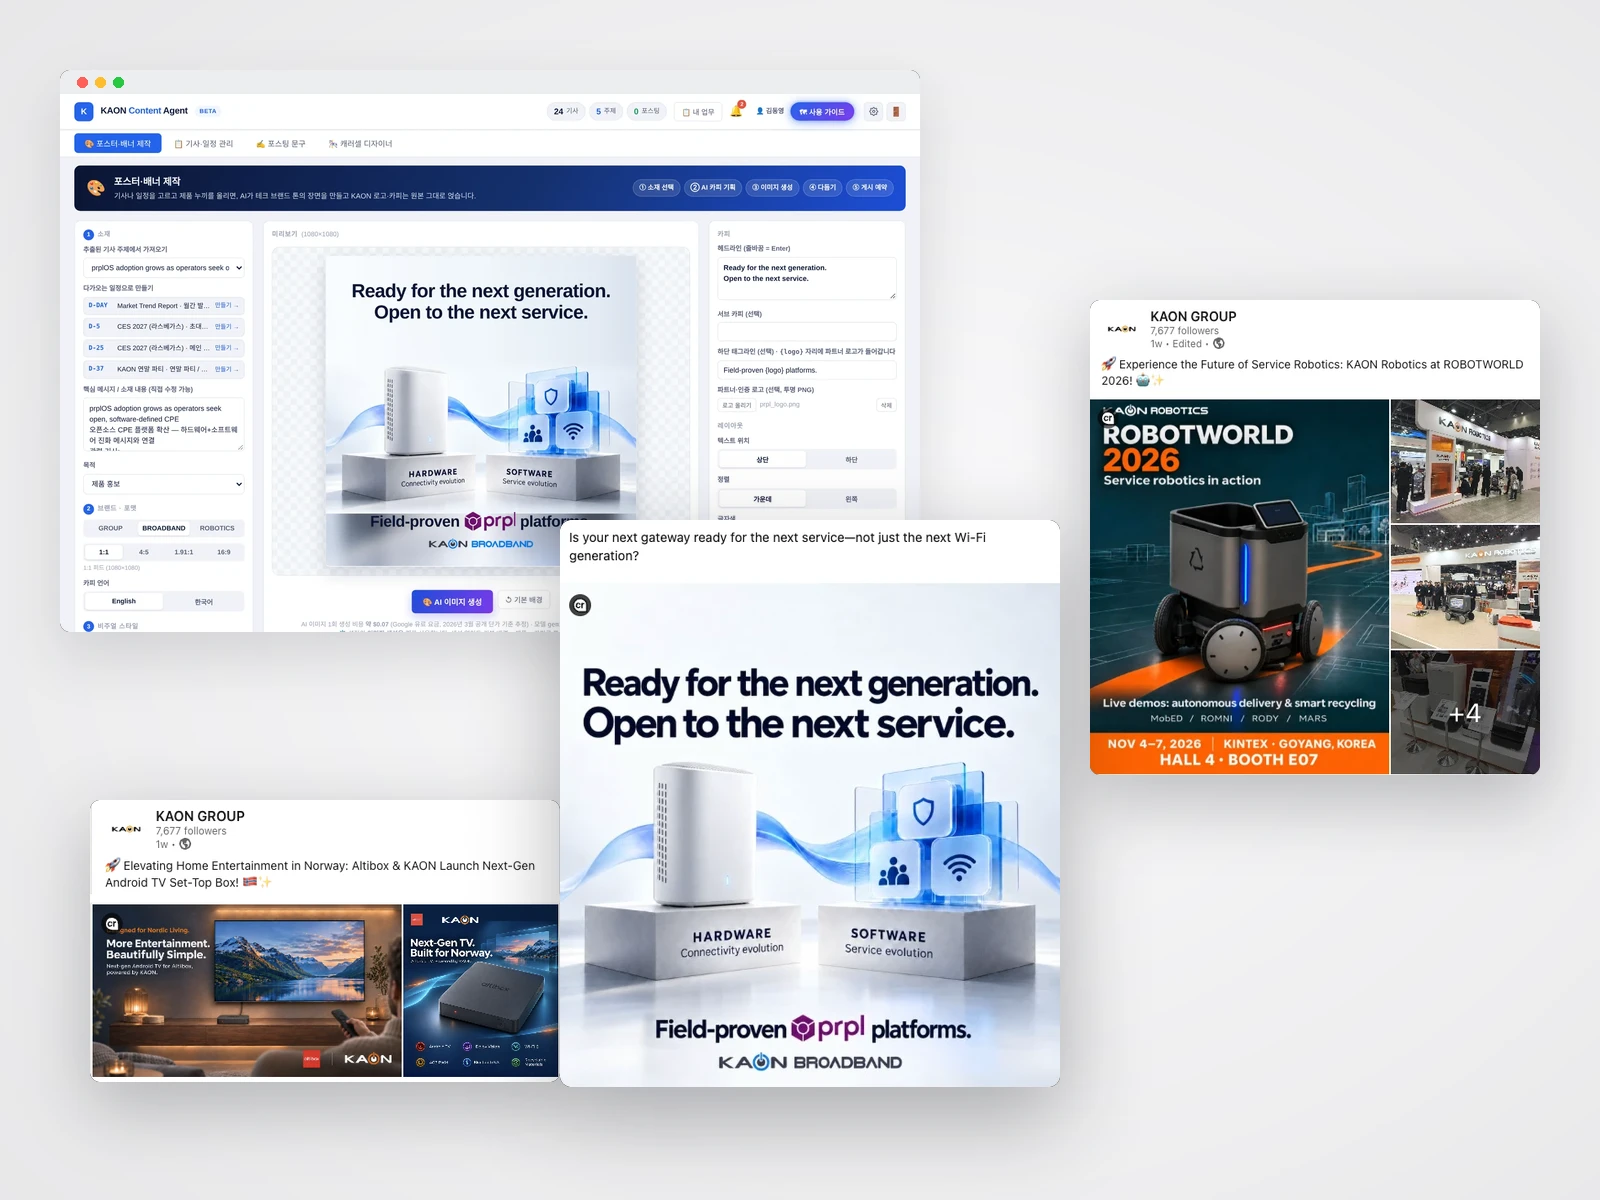
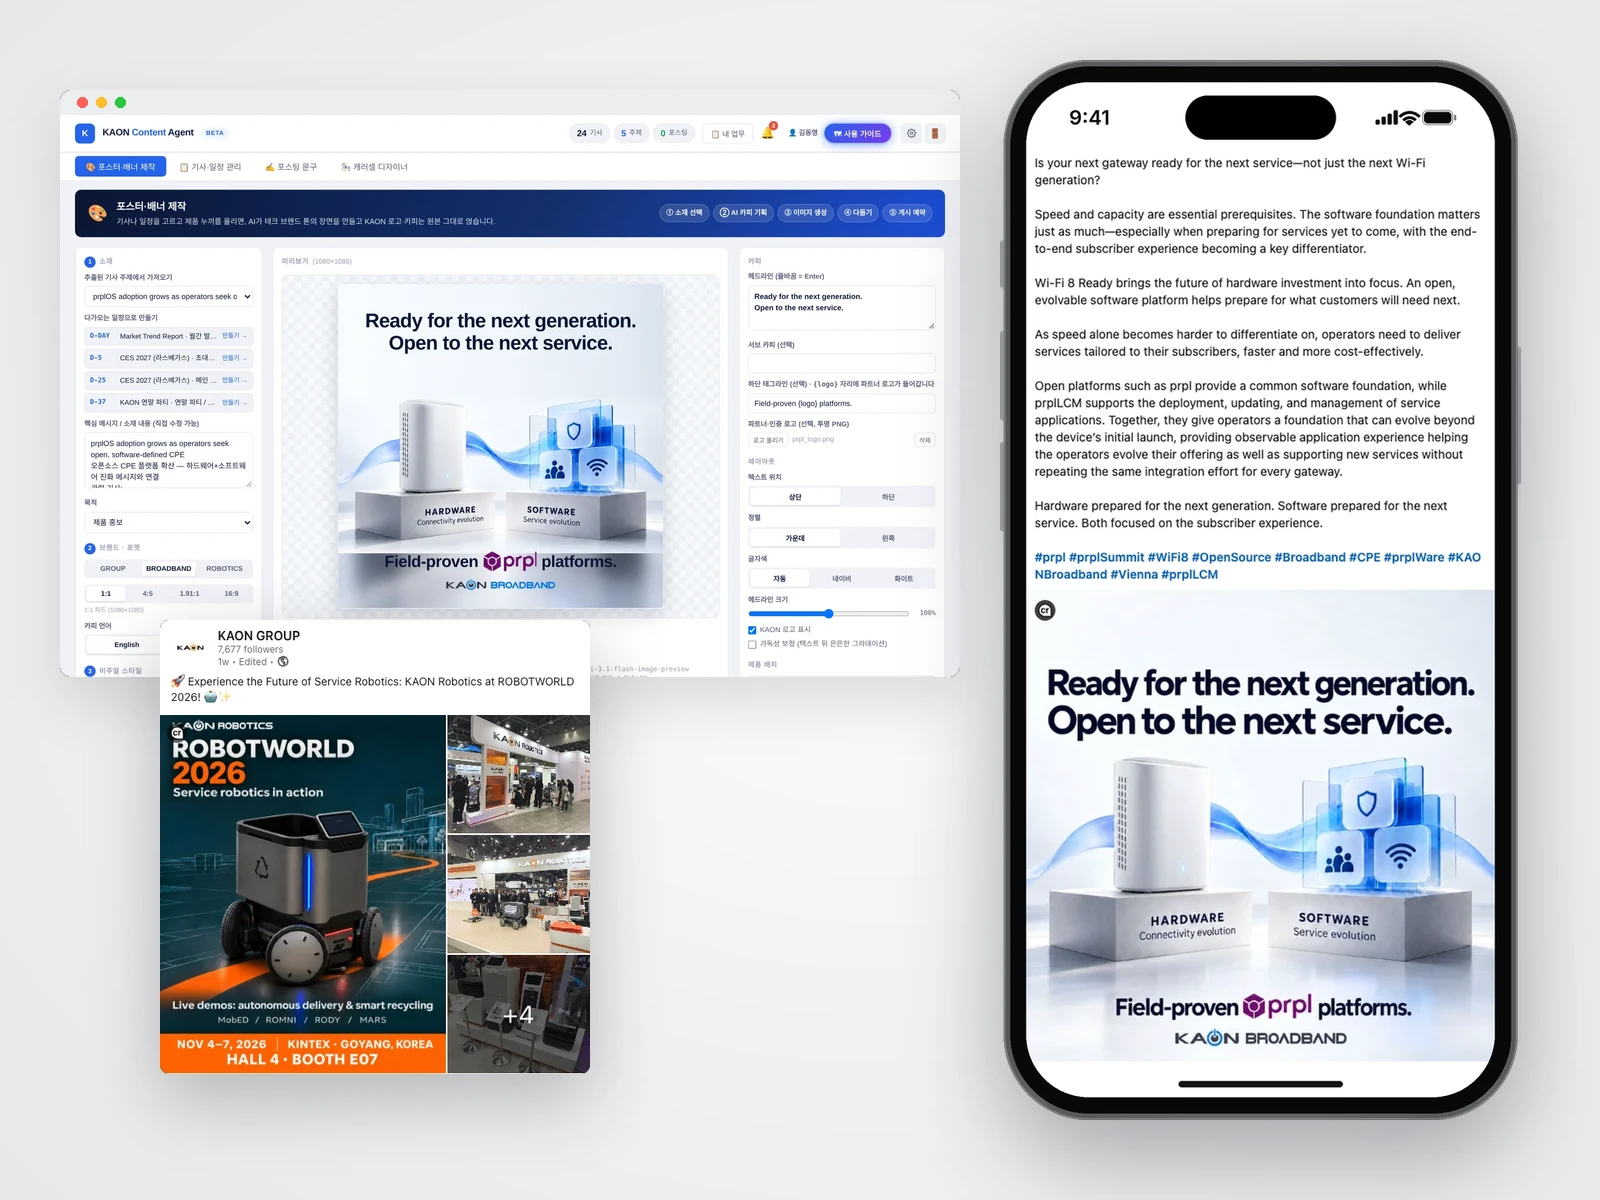
Show prpl LinkedIn post in a realistic phone mockup in thumbnails and Live section
Claude-Session: https://claude.ai/code/session_01BFCG5mZW9hgWuvcjPHNUrC

diff --git a/index.html b/index.html
@@ -722,6 +722,7 @@ body.lb-open .cursor{background:#EDEDED}
 .ag-posts{display:grid;grid-template-columns:repeat(3,minmax(0,1fr));gap:clamp(14px,2vw,28px);align-items:start}
 .ag-post{margin:0;display:grid;gap:12px}
 .ag-pc{border-radius:14px}
+.ag-phone{background:transparent!important;box-shadow:none!important;border-radius:0;overflow:visible!important;max-width:340px;justify-self:center;width:100%}.ag-phone img{filter:drop-shadow(0 30px 40px rgba(18,22,34,.28))}.ag-post:has(.ag-phone){justify-items:center;text-align:center}
 .ag-post figcaption{font-size:13px;line-height:1.6;color:var(--ink-2)}
 .ag-post figcaption b{display:block;font-size:14.5px;font-weight:500;color:var(--ink)}
 @media (max-width:900px){ .ag-posts{grid-template-columns:minmax(0,1fr);max-width:520px} }
@@ -4055,7 +4056,7 @@ go(0);})();
 
   <section class="ag-sec ag-live"><div class="wrap"><div class="c">
     <div class="ag-h"><span class="ag-no">Live on LinkedIn</span><h3>플래너로 만들어,<br>실제로 게시한 콘텐츠</h3><p>KAON Content Agent로 제작해 KAON 공식 채널과 임직원 계정에 실제로 게시한 사례입니다. 전시회 안내, 제품 런칭, 기술 메시지처럼 성격이 다른 게시물을 같은 흐름으로 만들었습니다. 게시물을 누르면 전체 글을 볼 수 있습니다.</p></div>
-    <div class="ag-posts"><figure class="ag-post"><button class="ag-ph ag-pc" type="button" data-ag-lb="post-prpl" aria-label="KAON Broadband — prpl 기반 게이트웨이 (Wi-Fi 8 Ready) 실제 LinkedIn 게시물 크게 보기"><img src="assets/agent/post-prpl.webp" alt="KAON Broadband — prpl 기반 게이트웨이 (Wi-Fi 8 Ready) — 실제 LinkedIn 게시물" loading="lazy" decoding="async"></button><figcaption><b>KAON Broadband — prpl 기반 게이트웨이 (Wi-Fi 8 Ready)</b>1:1 피드 포스터 · prpl Summit 연계 게시물</figcaption></figure><figure class="ag-post"><button class="ag-ph ag-pc" type="button" data-ag-lb="post-robotworld" aria-label="KAON Robotics — ROBOTWORLD 2026 전시 안내 실제 LinkedIn 게시물 크게 보기"><img src="assets/agent/post-robotworld.webp" alt="KAON Robotics — ROBOTWORLD 2026 전시 안내 — 실제 LinkedIn 게시물" loading="lazy" decoding="async"></button><figcaption><b>KAON Robotics — ROBOTWORLD 2026 전시 안내</b>전시회 캠페인 포스터 · KINTEX Booth E07</figcaption></figure><figure class="ag-post"><button class="ag-ph ag-pc" type="button" data-ag-lb="post-altibox" aria-label="KAON — Altibox 차세대 Android TV 셋톱박스 실제 LinkedIn 게시물 크게 보기"><img src="assets/agent/post-altibox.webp" alt="KAON — Altibox 차세대 Android TV 셋톱박스 — 실제 LinkedIn 게시물" loading="lazy" decoding="async"></button><figcaption><b>KAON — Altibox 차세대 Android TV 셋톱박스</b>제품 런칭 포스터 · 노르웨이 파트너 Altibox</figcaption></figure></div>
+    <div class="ag-posts"><figure class="ag-post"><button class="ag-ph ag-pc ag-phone" type="button" data-ag-lb="post-prpl" aria-label="KAON Broadband — prpl 기반 게이트웨이 (Wi-Fi 8 Ready) 실제 LinkedIn 게시물 크게 보기"><img src="assets/agent/phone-prpl.webp" alt="KAON Broadband — prpl 기반 게이트웨이 (Wi-Fi 8 Ready) — 실제 LinkedIn 게시물" loading="lazy" decoding="async"></button><figcaption><b>KAON Broadband — prpl 기반 게이트웨이 (Wi-Fi 8 Ready)</b>1:1 피드 포스터 · prpl Summit 연계 게시물</figcaption></figure><figure class="ag-post"><button class="ag-ph ag-pc" type="button" data-ag-lb="post-robotworld" aria-label="KAON Robotics — ROBOTWORLD 2026 전시 안내 실제 LinkedIn 게시물 크게 보기"><img src="assets/agent/post-robotworld.webp" alt="KAON Robotics — ROBOTWORLD 2026 전시 안내 — 실제 LinkedIn 게시물" loading="lazy" decoding="async"></button><figcaption><b>KAON Robotics — ROBOTWORLD 2026 전시 안내</b>전시회 캠페인 포스터 · KINTEX Booth E07</figcaption></figure><figure class="ag-post"><button class="ag-ph ag-pc" type="button" data-ag-lb="post-altibox" aria-label="KAON — Altibox 차세대 Android TV 셋톱박스 실제 LinkedIn 게시물 크게 보기"><img src="assets/agent/post-altibox.webp" alt="KAON — Altibox 차세대 Android TV 셋톱박스 — 실제 LinkedIn 게시물" loading="lazy" decoding="async"></button><figcaption><b>KAON — Altibox 차세대 Android TV 셋톱박스</b>제품 런칭 포스터 · 노르웨이 파트너 Altibox</figcaption></figure></div>
     <p class="ag-note">임직원 계정 게시물은 개인 정보 보호를 위해 프로필 영역을 잘라냈습니다.</p>
   </div></div></section>
   <section class="ag-sec ag-alt"><div class="wrap"><div class="c">
@@ -4458,7 +4459,7 @@ const WORKS=[
    ch:'업계 뉴스와 경쟁사 동향을 매일 수작업으로 검색·정리했고, LinkedIn 소재 발굴에만 주 약 6시간이 들었습니다.',
    ap:'Claude로 KAON Monthly News Dashboard를 설계·구축했습니다. RSS 자동 크롤링 → GitHub 데이터 저장 → 웹 대시보드로 이어지고, News Feed·경쟁사 LinkedIn 아카이브·경쟁사 채널·수집 상태 모니터링 4개 모듈로 구성했습니다.',
    out:'산업 기사 177건 이상을 자동 수집·분류하고, Sagemcom·ZTE·Huawei 등 경쟁사 14곳의 채널을 원클릭으로 모니터링하는 체계를 만들었습니다. 리서치 시간이 주 6시간에서 1시간으로 줄었습니다.'},
-  {title:'KAON Content Agent', page:'agent', feat:1, img:'assets/agent/thumb.webp?v=3', imgW:'assets/agent/thumb-wide.webp?v=3', sub:'KAON GROUP', tag:'AX · AI Agent Platform', period:'2026.07 — 운영 중', cat:['ai','content'], scene:1,
+  {title:'KAON Content Agent', page:'agent', feat:1, img:'assets/agent/thumb.webp?v=4', imgW:'assets/agent/thumb-wide.webp?v=4', sub:'KAON GROUP', tag:'AX · AI Agent Platform', period:'2026.07 — 운영 중', cat:['ai','content'], scene:1,
    kr:'기사 한 줄에서 LinkedIn 게시까지 잇는 AI 콘텐츠 제작·운영 플랫폼', role:'기획 · 요구사항 정의 · 검수 · 운영 (AI 코딩 에이전트와 협업)', client:'가온그룹 마케팅팀', tools:'Claude (AI 코딩 에이전트), Google Gemini, Supabase, GitHub Pages',
    kpis:[['5단계','소재 → 카피 → 이미지 → 일정 → 게시 통합'],['232건','과거 게시물 분석 기반 추천 게시일'],['91개','자동 브라우저 테스트 항목']],
    ch:'세 브랜드의 LinkedIn 운영에서 소재 발굴·디자인·일정·협업·게시가 각각 다른 도구와 사람에게 흩어져 있었습니다.',
